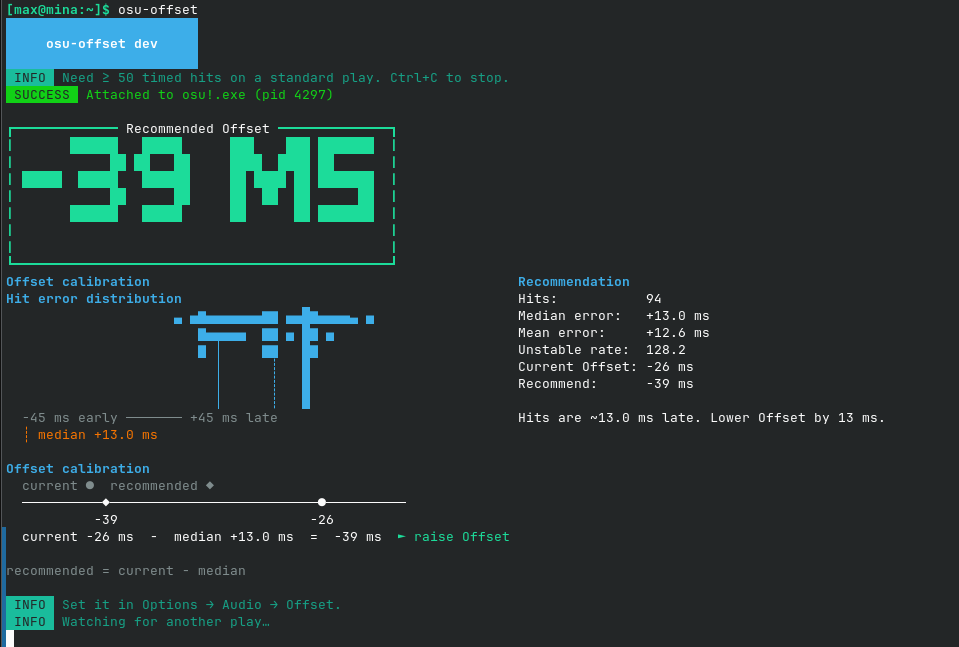
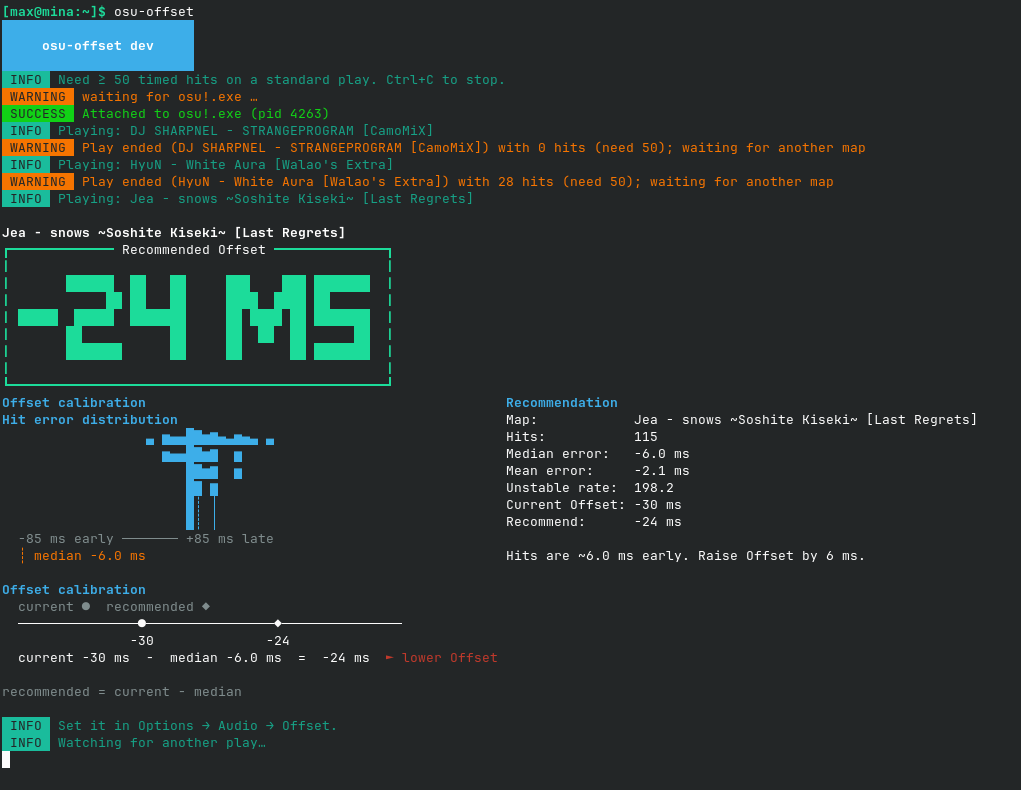
Update README and example screenshot for the terminal dashboard.
Document the histogram, recommendation stats, and offset calibration UI shown after each usable play.

diff --git a/README.md b/README.md
@@ -17,14 +17,21 @@ Works with [nix-osu-stable](https://github.com/gaavin/nix-osu-stable) on NixOS, 
 **Already have a release binary or Nix?**
 
 ```bash
-osu-offset          # watch osu!.exe; print after every usable play
+osu-offset          # watch osu!.exe; dashboard after every usable play
 ```
 
 1. Launch osu!stable (or start `osu-offset` first — it waits for `osu!.exe`).
 2. Play a map with at least **50 timed hits** (standard mode).
-3. When the play ends, copy the printed Offset into **Options → Audio → Offset**.
+3. When the play ends, read the **Recommended Offset** and set it in **Options → Audio → Offset**.
+
+In a terminal, `osu-offset` prints a live dashboard after each usable play:
 
 ![osu-offset example output](assets/osu-offset-example.png)
+
+- **Recommended Offset** — large headline value to copy into the game
+- **Hit error distribution** — histogram of your timing with the median marked
+- **Recommendation** — map title, hit count, median/mean error, UR, current vs recommended offset, and plain-language advice
+- **Offset calibration** — slider showing where you are vs where to move, with `recommended = current − median`
 
 ---
 
@@ -35,9 +42,9 @@ osu-offset          # watch osu!.exe; print after every usable play
 • Attach to running <code>osu!.exe</code> (Windows, or Wine on Linux / NixOS)<br/>
 • Read the current universal Offset from memory (updates when you change it in-game)<br/>
 • Read the current play's hit-error list from memory<br/>
-• Take the <strong>median</strong> error (≥ 50 timed hits)<br/>
-• Print: <code>currentOffset − medianError</code><br/>
-• Keep watching — re-attach if osu! restarts
+• After the play ends with ≥ 50 timed hits, render a dashboard:<br/>
+&nbsp;&nbsp;— hit-error histogram, stats (median, mean, UR), and <code>recommended = current − median</code><br/>
+• Skip short plays and keep watching — re-attach if osu! restarts
 </div>
 
 That reflects the Offset and audio setup you have **right now**.
